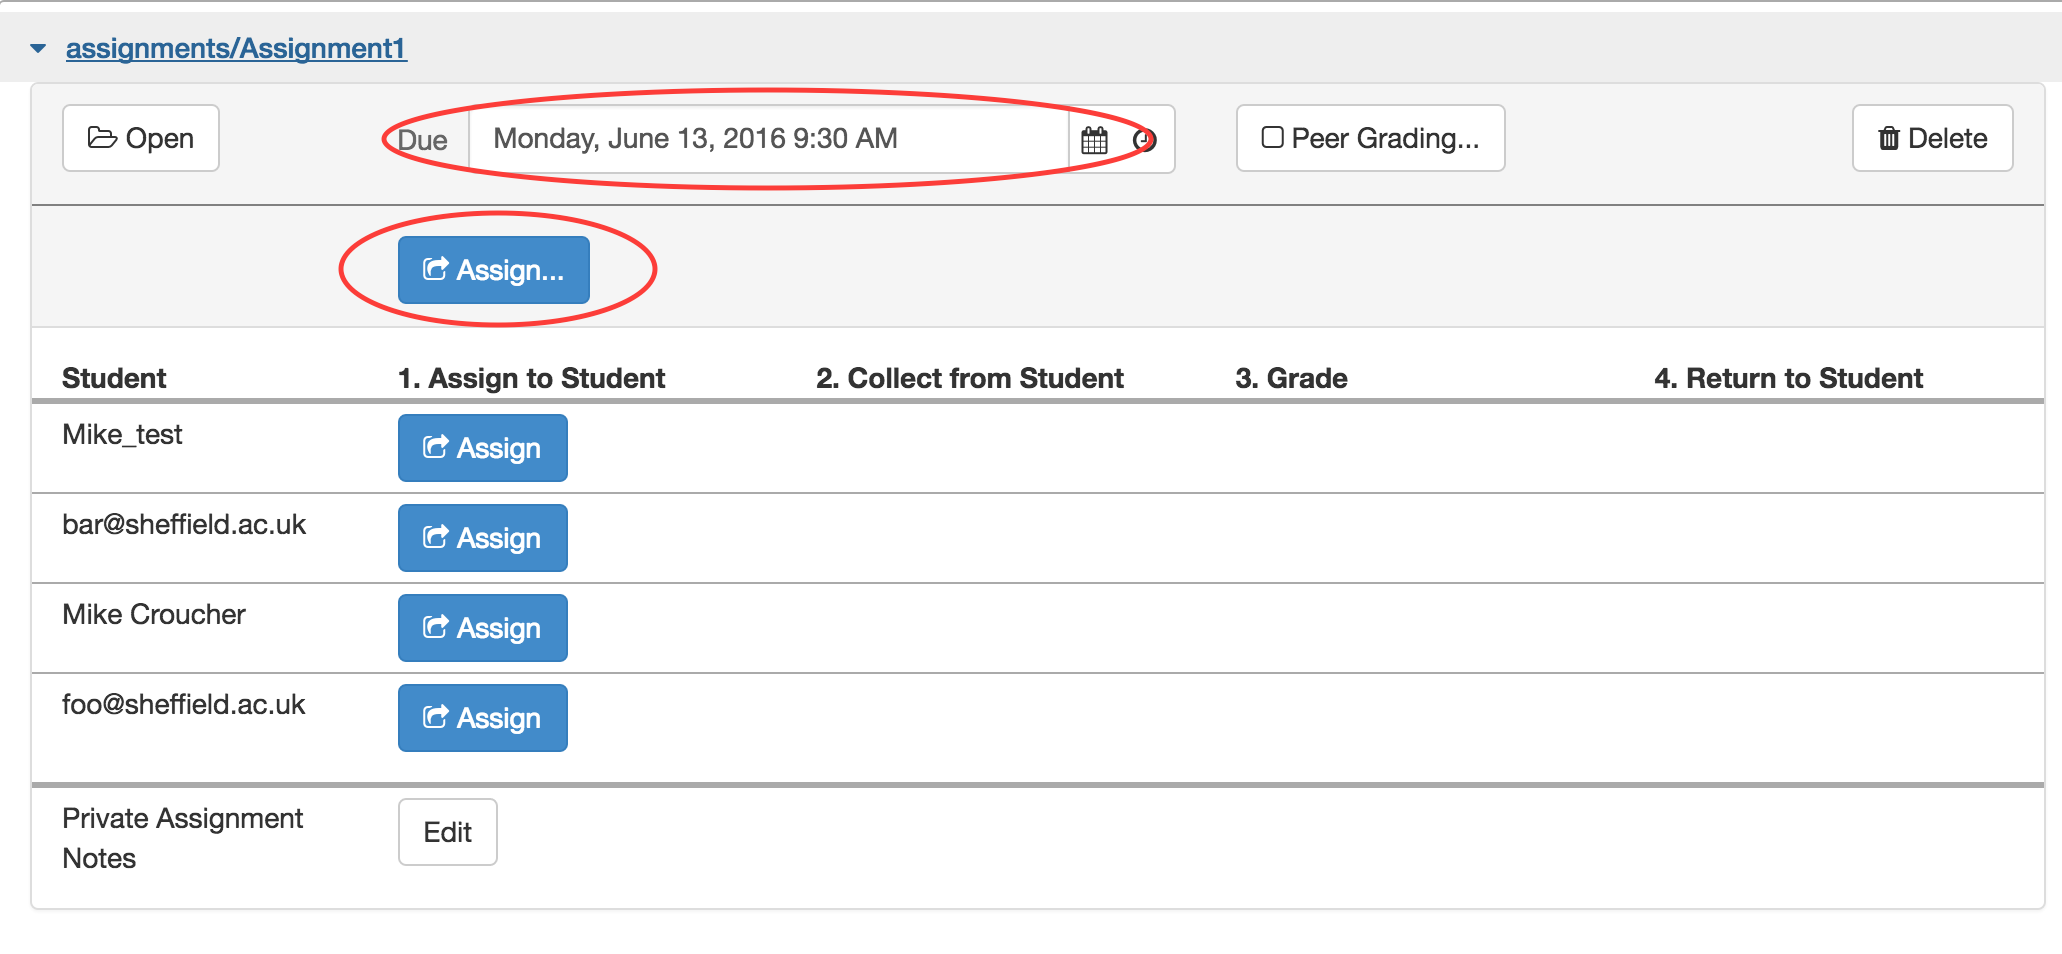
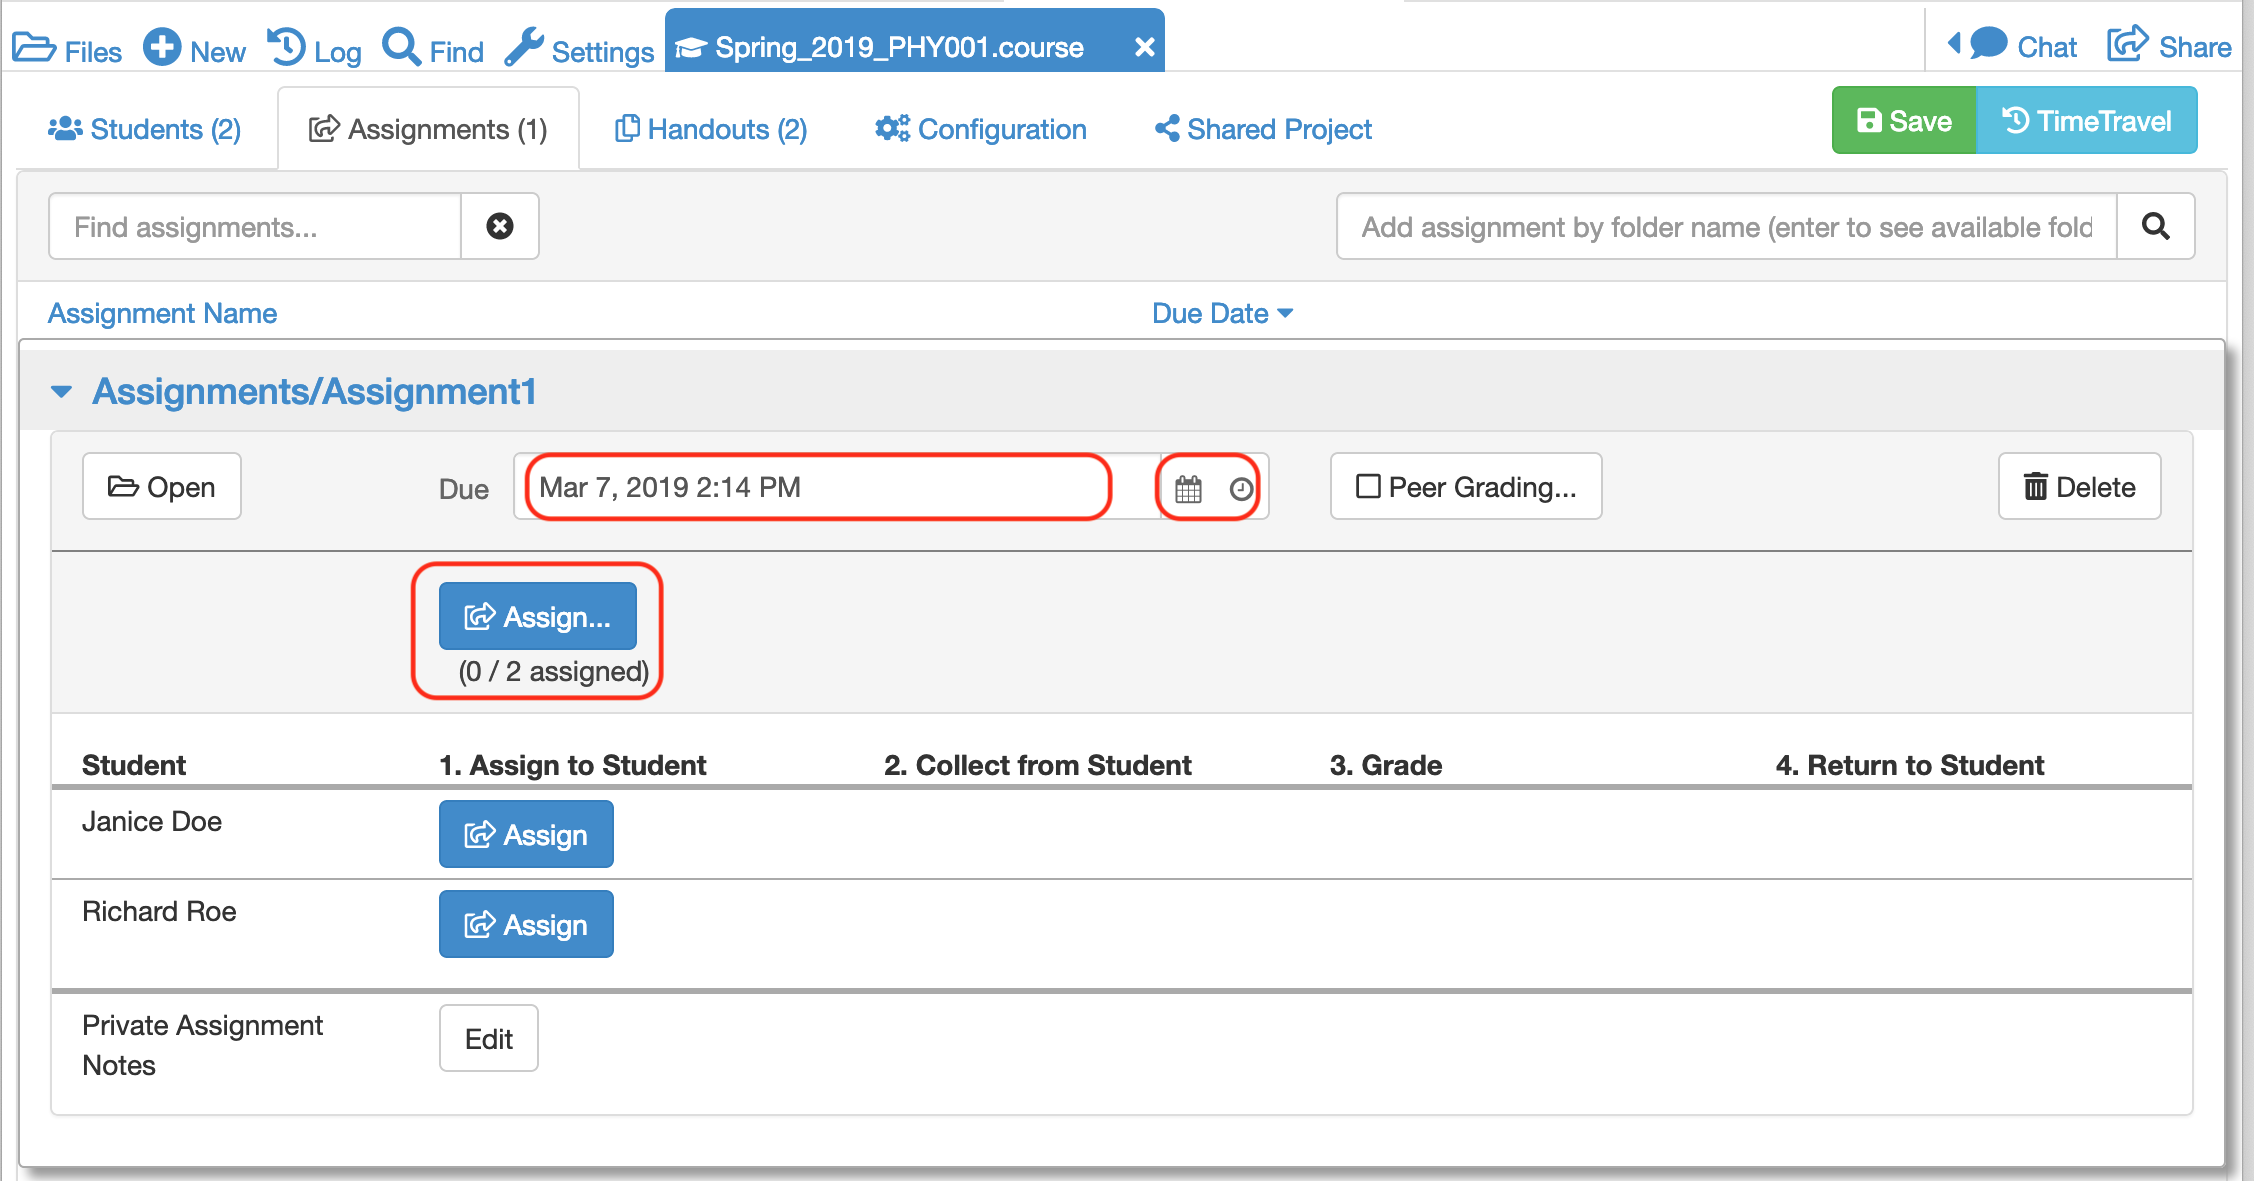
update assignment screenshots

Changed region(s): [[0.0, 0.0, 1.0, 1.0], [0.4966, 0.2432, 0.5587, 0.2736]]

diff --git a/source/teaching-course-management.rst b/source/teaching-course-management.rst
@@ -16,14 +16,14 @@ Create a new Handout
 
 A handout consists of a folder that contains one or more files to be distributed to your students.
 
-Start off by creating a folder called **Handouts** in the root directory of your course project. Within this folder create a subfolder called, say, **Handout1** and populate it with one or more files for the handout. These files can be anything - text, Markdown, code, pdf, and may contain subfolders.
+Create a folder called **Handouts** in the root directory of your course project. Within this folder create a subfolder called, say, **Handout1** and populate it with one or more files for the handout. These files can be anything - text, Markdown, code, pdf, and may contain subfolders.
 
 Open the **.course** file and click on the **Handouts** tab
 
 .. image:: img/teaching/handout-course.png
      :width: 100%
 
-Enter **Handout** in the search box on the right hand of the screen.
+Type **handout** in the search box on the right hand of the screen and press enter. Note that search is case-insensitive.
 
 The system will look for any folders with **Handout1** in their path name and  return a set of options. Highlight the one you want and click on **Add selected handout**.
 
@@ -39,28 +39,20 @@ Create a new assignment
 ===============================
 
 
-An assignment consists of a folder that contains one or more files to be distributed to your students.
+An assignment is a folder that contains one or more files that can be distributed to your students and collected at some future time for grading.
 
-Start off by creating a folder called **assignments** in the root directory of your course project.
-Within this folder create a subfolder called, say, **Assignment1** and populate it with a Jupyter Notebook that contains the question(s) that you want your students to answer.
+Create a folder called **Assignments** in the root directory of your course project.
+Within this folder create a subfolder called, say, **Assignment1** and populate it with files that contains questions or problems for your students to answer. For example, an assignment can contain a Jupyter notebook and data files, with instructions for a programming exercise.
 
-Open the **.course** file and click on the **Assignments** tab
+Open the **.course** file and click on the **Assignments** tab.
+Enter **assignment1** in the search box on the right hand of the screen and press enter.
 
-.. image:: img/teaching/assignment_course.png
-     :width: 100%
-
-Enter **assignment1** in the search box on the right hand of the screen.
+The system will return a list of folders with **assignment1** in their path name. Highlight the one you want and click on **Add assignment**.
 
 .. image:: img/teaching/find_assignment.png
      :width: 100%
 
-The system will look for any folders with **assignment1** in their path name and  return a set of options.
-Highlight the one you want and click on **Add Selected Assignment**.
-
-.. image:: img/teaching/find_assignment2.png
-     :width: 100%
-
-The new assignment will be added to the top of the list of assignments available for this course.
+The new assignment will be added to the list of assignments available for this course.
 
 .. image:: img/teaching/assignment_list.png
      :width: 75%
@@ -69,12 +61,12 @@ Assigning an assignment to students
 ======================================
 
 Click on the assignment in the assignment list.
-When the assignment opens, set the **Due** date and click on the **Assign** button to assign to all students in the course.
-
-Alternatively, you can assign just to individual students.
+When the assignment opens, set the **Due** date. You can do this in the text area, or using the calendar and clock widgets to the right. Click on the **Assign** button to assign to all students in the course.
 
 .. image:: img/teaching/send_assignment.png
      :width: 100%
+
+Alternatively, you can assign just to individual students.
 
 When an assignment is made to a student, a **copy** of the assignment folder will appear in their course project.
 
